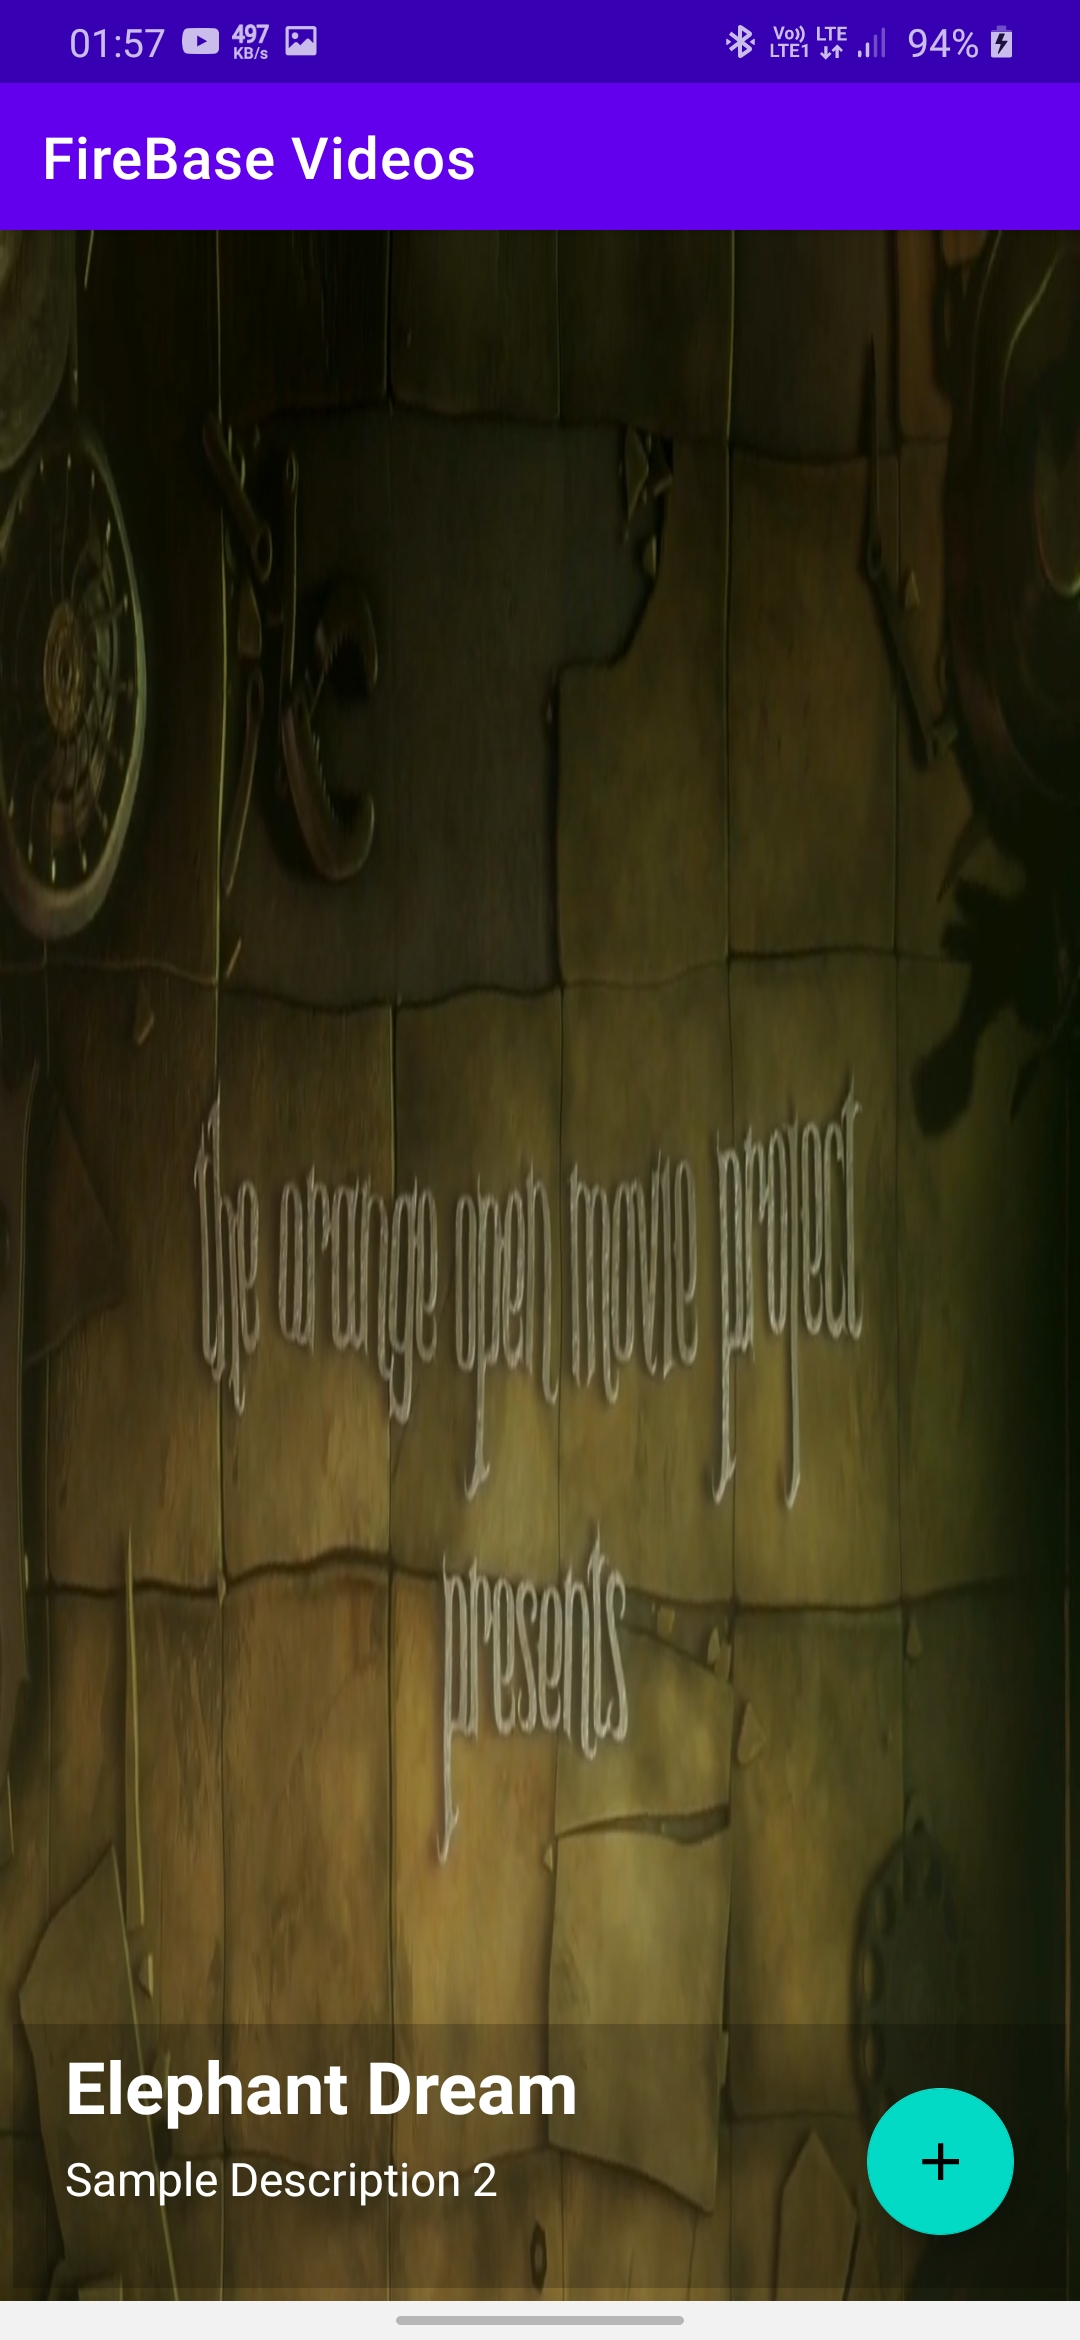
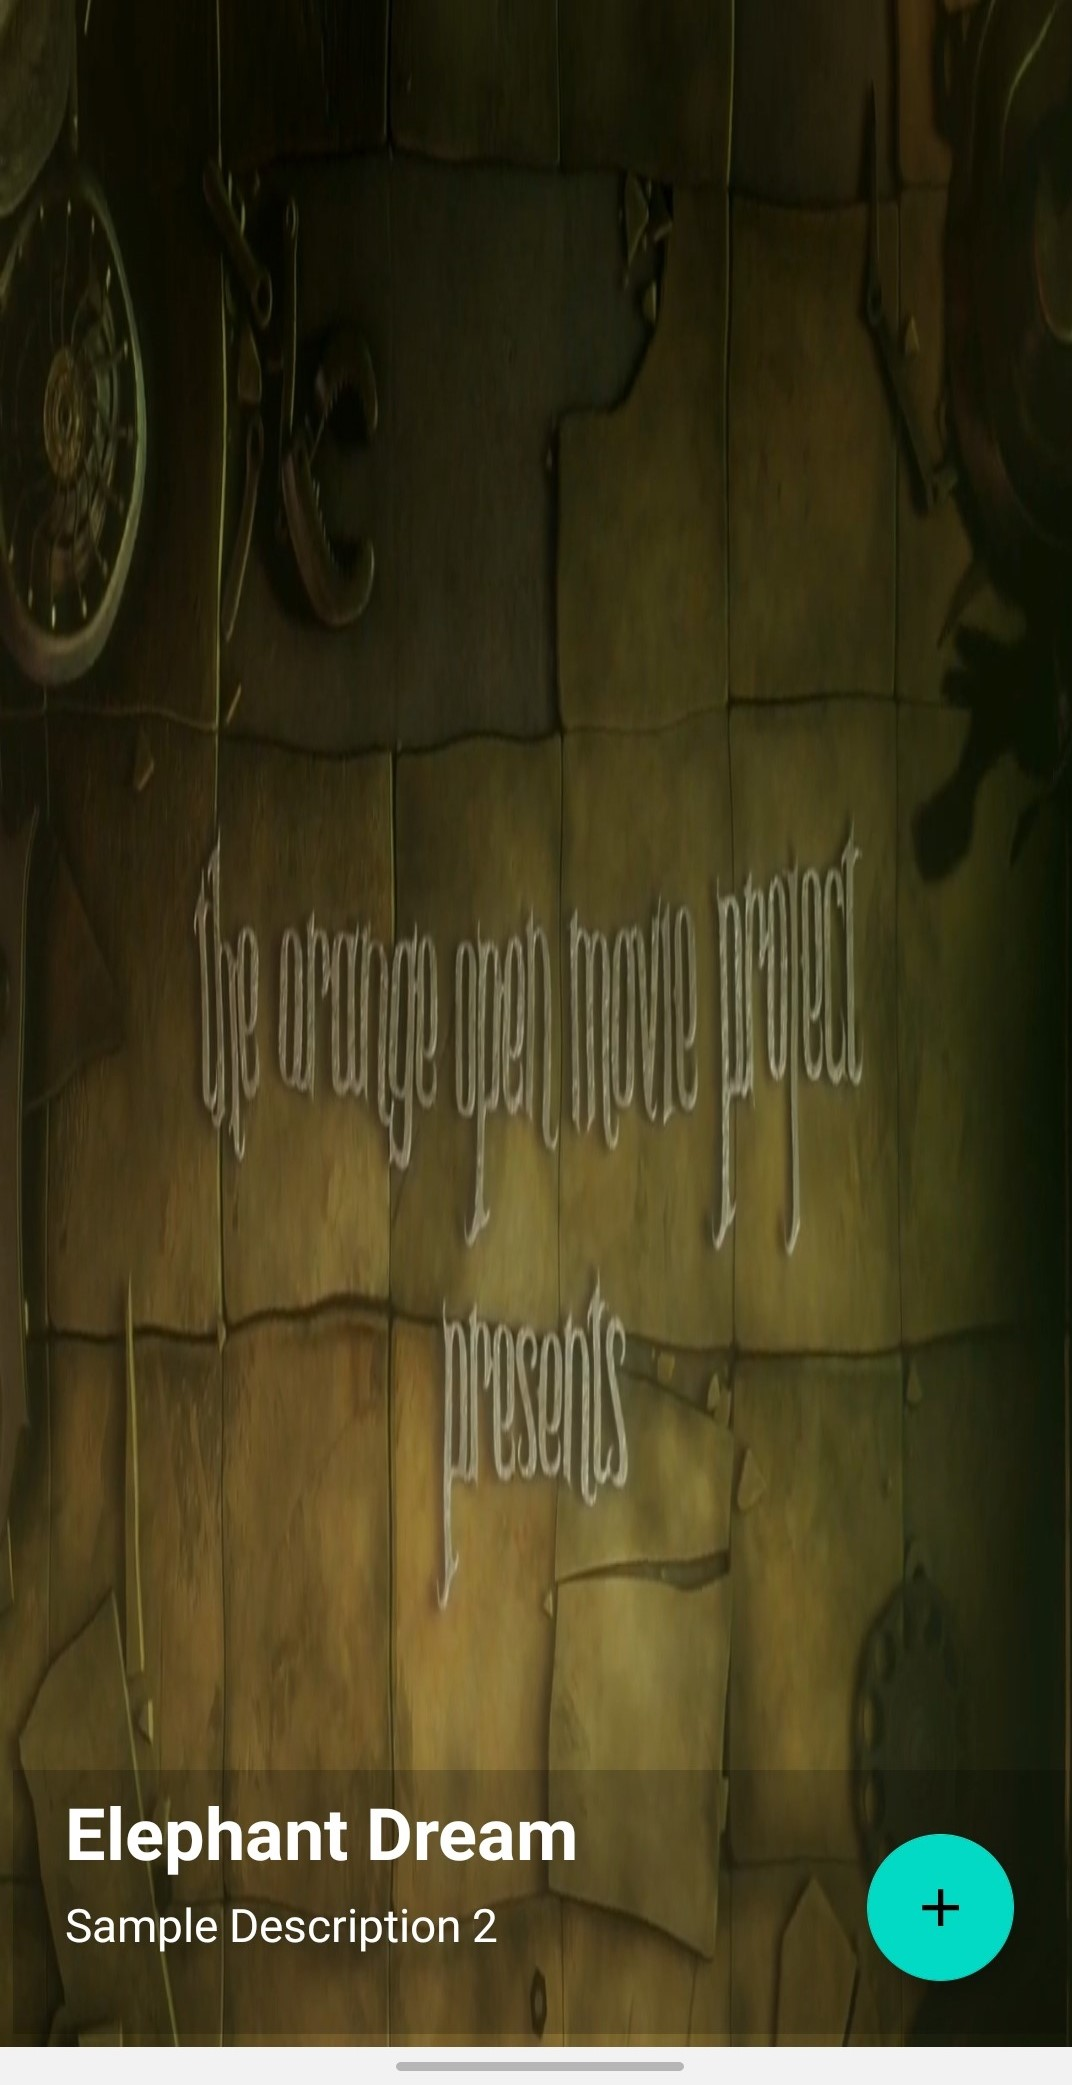
Added sample resources

diff --git a/app/src/main/java/com/scrolkart/firebasevideos/VideoActivity.java b/app/src/main/java/com/scrolkart/firebasevideos/VideoActivity.java
@@ -21,7 +21,6 @@ import java.util.ArrayList;
 
 public class VideoActivity extends AppCompatActivity {
 
-
     FloatingActionButton btn_add_video;
     ViewPager2 viewPager2;
     ArrayList<MediaObject> mediaObjects;
@@ -31,34 +30,35 @@ public class VideoActivity extends AppCompatActivity {
         super.onCreate(savedInstanceState);
         setContentView(R.layout.activity_video);
 //        getWindow().setFlags(WindowManager.LayoutParams.FLAG_FULLSCREEN,WindowManager.LayoutParams.FLAG_FULLSCREEN); // hide status bar
+        getSupportActionBar().hide();
 
         // Action bar Title
-        setTitle("FireBase Videos");
+//        setTitle("FireBase Videos");
 
         viewPager2 = (ViewPager2)findViewById(R.id.viewPager);
         mediaObjects = new ArrayList<>();
 
          // For Data from firebase realtime database
-        /*DatabaseReference db = FirebaseDatabase.getInstance().getReference().child("Videos");
-        ValueEventListener valueEventListener = new ValueEventListener() {
+        DatabaseReference db = FirebaseDatabase.getInstance().getReference().child("Videos");
+        db.addValueEventListener(new ValueEventListener() {
             @Override
             public void onDataChange(@NonNull DataSnapshot snapshot) {
                 mediaObjects.clear();
                 for(DataSnapshot data : snapshot.getChildren()){
                     MediaObject object = data.getValue(MediaObject.class);
                     mediaObjects.add(object);
-                    System.out.println(object.getTitle());
+                    System.out.println(object);
                 }
+                viewPager2.setAdapter(new VideoAdapter(mediaObjects));
             }
-
             @Override
             public void onCancelled(@NonNull DatabaseError error) {
 
             }
-        };*/
+        });
 
         // Hard coded video example for testing purpose
-        MediaObject object1 = new MediaObject("1","Big Buck Bunny","Sample Description 1","001","https://commondatastorage.googleapis.com/gtv-videos-bucket/sample/BigBuckBunny.mp4");
+       /* MediaObject object1 = new MediaObject("1","Big Buck Bunny","Sample Description 1","001","https://commondatastorage.googleapis.com/gtv-videos-bucket/sample/BigBuckBunny.mp4");
         MediaObject object2 = new MediaObject("2","Elephant Dream","Sample Description 2","002","https://commondatastorage.googleapis.com/gtv-videos-bucket/sample/ElephantsDream.mp4");
         MediaObject object3 = new MediaObject("3","For Bigger Blazes","Sample Description 3","003","https://commondatastorage.googleapis.com/gtv-videos-bucket/sample/ForBiggerBlazes.mp4");
         MediaObject object4 = new MediaObject("4","For Bigger Escape","Sample Description 4","004","https://commondatastorage.googleapis.com/gtv-videos-bucket/sample/ForBiggerEscapes.mp4");
@@ -67,9 +67,9 @@ public class VideoActivity extends AppCompatActivity {
         mediaObjects.add(object2);
         mediaObjects.add(object3);
         mediaObjects.add(object4);
-        mediaObjects.add(object5);
+        mediaObjects.add(object5);*/
 
-        viewPager2.setAdapter(new VideoAdapter(mediaObjects));
+//        viewPager2.setAdapter(new VideoAdapter(mediaObjects));
 
 
         // Upload video button
@@ -82,8 +82,5 @@ public class VideoActivity extends AppCompatActivity {
                 startActivity(new Intent(VideoActivity.this,AddVideoActivity.class));
             }
         });
-
-
-
     }
 }

diff --git a/app/src/main/java/com/scrolkart/firebasevideos/AddVideoActivity.java b/app/src/main/java/com/scrolkart/firebasevideos/AddVideoActivity.java
@@ -160,6 +160,7 @@ public class AddVideoActivity extends AppCompatActivity {
                                             // video details uploaded successfully to firebase database
                                             progressDialog.dismiss();
                                             Toast.makeText(AddVideoActivity.this, "Video Uploaded 👍", Toast.LENGTH_SHORT).show();
+                                            finish();
                                         }
                                     })
                                     .addOnFailureListener(new OnFailureListener() {
